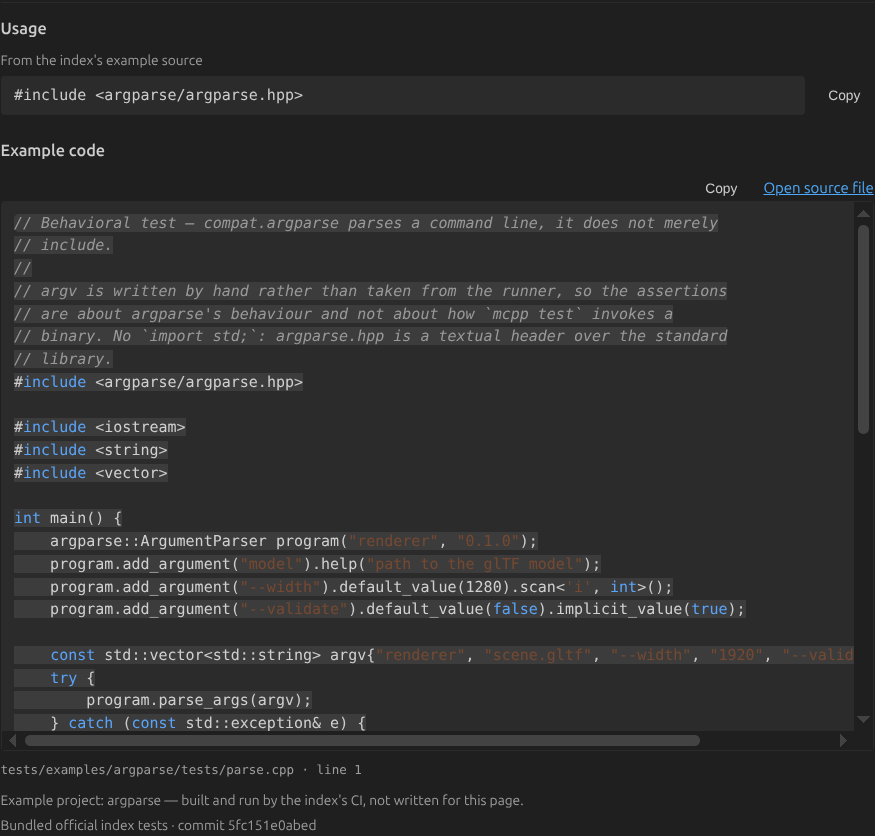
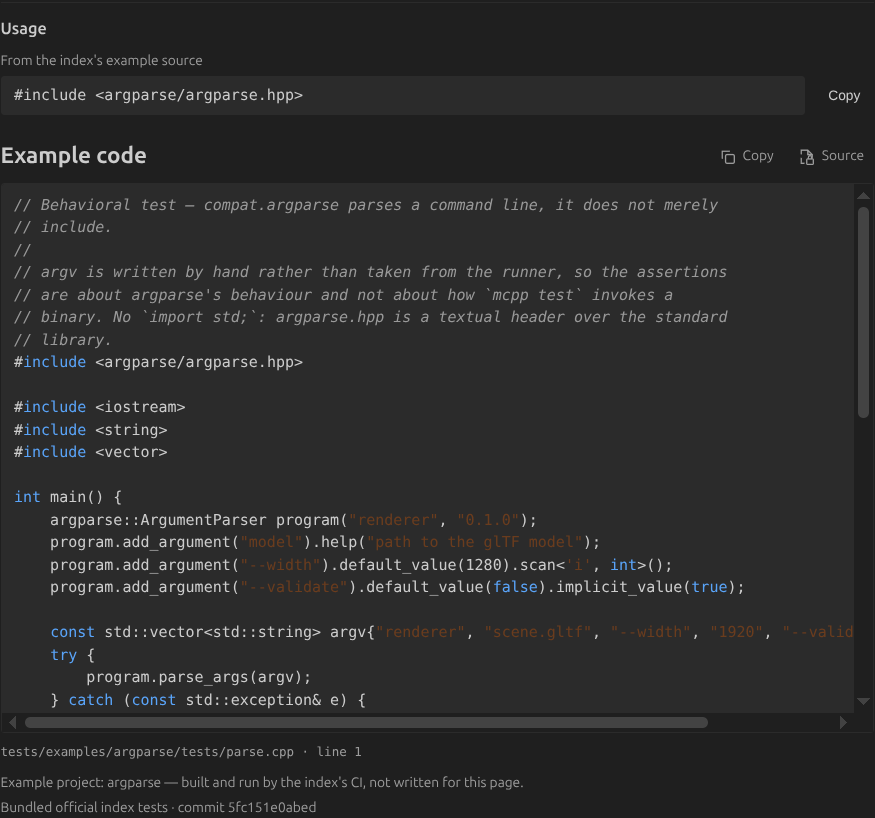
docs: record libraries visual review and canvas interactions

diff --git a/.agnets/docs/2026-10-18-libraries-ux-optimisation-plan.md b/.agnets/docs/2026-10-18-libraries-ux-optimisation-plan.md
@@ -276,3 +276,14 @@ mcpp add compat.argparse@3.2                   [复制]
 - “基本信息 → 依赖”右侧加入项目依赖图按钮。根项目为第 0 层，展示最近 3 层依赖；普通、开发、构建与条件声明区分关系，路径包继续读本地清单。
 - lock 文件没有父子边，因此只提供版本；关系来自 manifest 与本地索引描述符，明确标为声明图，不声称是实际构建解析图。缺少本地元数据的节点使用虚线，不把所有 lock 包错误连接到每个直接依赖。
 - Mermaid 随插件打包，离线渲染；支持缩放、刷新、复制 Mermaid 和打开清单。循环/共享节点去重，规模限制为 120 节点、240 条边。
+
+## 13. 第三轮 review：代码阅读与依赖导航
+
+- 示例代码的逐行白条来自 VS Code 默认内联 `code` 背景，代码块显式重置为透明背景及块级显示。复制与源码入口同“示例代码”标题同行，使用紧凑图标按钮；复制反馈不移除图标。
+- 官方快照和本地 checkout 示例统一使用按内容哈希生成的只读虚拟文档，不再直接打开可编辑的索引文件。
+- Dependencies 仅显示直接声明的 `namespace.package@version`，区分索引、path、git 和开发/构建分组。复用 Libraries 的命名空间解析器，避免把 `[dependencies.compat]` 误当成一个 `compat` 包；不再显示无意义的 `Resolved —`。
+- 每个依赖条目携带项目根目录与依赖身份，点击打开同一个图面板并定位、高亮目标节点。图面板获得焦点后仍保留当前项目上下文。
+- 图首屏只保留标题、项目名和紧凑操作区，移除绝对路径、统计段落和大段解释；图例与源码收起。
+- 连线上完整显示 `namespace.package@version`；节点内显示名称、少量使用方式/许可证或 path 标签及 deps 数量。项目蓝、path 紫、索引绿、缺失元数据橙，保留虚线与文字以避免仅依赖颜色。被定位节点以明显轮廓高亮。
+
+- 依赖图支持以鼠标位置为中心的滚轮缩放、按住鼠标拖动画布；保留节点点击高亮，拖动不会误触节点。提供 Fit 复位和 `+` / `-` / `0` 键盘操作。真实 UI 校验缩放锚点、双轴平移及复位。

diff --git a/docs/libraries.md b/docs/libraries.md
@@ -26,7 +26,8 @@ Usage shows the index's real test examples, preferring the package's own named
 test project. Local checkout tests take priority. Official packaged indexes often
 omit tests, so the extension includes a pinned upstream test snapshot for offline
 use, with its commit shown on the page. Open the complete source in a read-only
-editor; custom indexes only use their own tests. Packages without matching tests
+editor; this also applies to local checkout sources. Copy and source actions sit
+beside the example heading. Custom indexes only use their own tests. Packages without matching tests
 keep an explicit empty state. Platform versions, build information and source
 diagnostics can be expanded without leaving the page.
 
@@ -39,6 +40,12 @@ resolved build. Missing local metadata is marked with a dashed node. The page
 supports zoom, refresh, opening the manifest and copying Mermaid source, and caps
 large graphs at 120 nodes or 240 edges.
 
+The dependency list shows direct `namespace.package@version` declarations and
+distinguishes index, path and git sources. Click a row to open the graph focused
+on that dependency. Graph edges keep the full package coordinate together;
+colored nodes show minimal tags and dependency counts. The primary canvas omits
+absolute paths and diagnostic paragraphs; the legend and source are folded.
+
 **Search other registries** is optional and off by default. Results from these
 registries appear in a separate group and open limited previews. They cannot be
 added directly without a complete local descriptor.
@@ -48,3 +55,5 @@ If the official catalog is missing, update the mcpp index or configure
 is identified as a custom source; global index updates do not update an arbitrary
 checkout. The legacy official path is supported, while the xlings tool catalog
 is not automatically substituted for mcpp-index.
+
+The dependency graph supports cursor-centered wheel zoom and click-and-drag panning. Use Fit to restore the complete graph; keyboard `+`, `-`, and `0` provide zoom and reset.

diff --git a/.agents/docs/architecture.md b/.agents/docs/architecture.md
@@ -90,3 +90,5 @@ extension.ts                 VS Code 装配层：激活、命令注册、provide
 
 - `library/examples.ts`：官方安装版索引未携带测试时，读取带来源提交的内置测试快照；checkout 的本地测试优先，自定义索引不使用此兜底。完整代码通过只读 `mcpp-example` 文档打开。
 - `projects/dependencyGraph.ts`：纯声明图遍历，最多三跳，处理路径包、共享节点和循环；lock 只补版本。`dependencyGraphPanel.ts` 负责只读文件编排和本地 Mermaid Webview。Mermaid 固定版本与许可证由编译脚本复制至 `dist/vendor`，无需 CDN。
+
+- `views/models.ts` 与 Libraries 共用直接声明解析，树节点携带项目、依赖和分组身份；点击进入声明图并居中高亮对应节点。Webview 使用 SVG 平移/缩放变换，滚轮保留鼠标锚点，Pointer Events 区分点击与拖动；Fit 可恢复完整图。

diff --git a/CHANGELOG.md b/CHANGELOG.md
@@ -1,5 +1,6 @@
 ## Unreleased
 
+- Example code uses a uniform background and compact heading actions; local and bundled example sources both open read-only. Direct dependency rows now resolve namespaces correctly, show package coordinates and sources, and focus the selected node in the simplified colored graph.
 - Usage pages restore real index test examples even when the installed index omits tests, using a pinned offline snapshot with full read-only source access. Focused search shows a single clear button.
 - Project dependencies offer a Mermaid graph of the nearest three levels, based on manifests and local index metadata, with refresh, zoom and Mermaid copy controls.
 - Libraries now defaults to the official `mcpp-index` in `<mcpp home>/indices/mcpplibs`, with support for the old location. The xlings tool index is no longer substituted for the library catalog.
